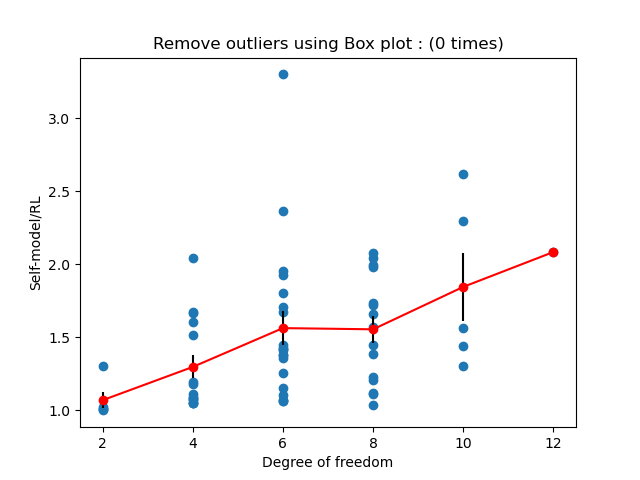
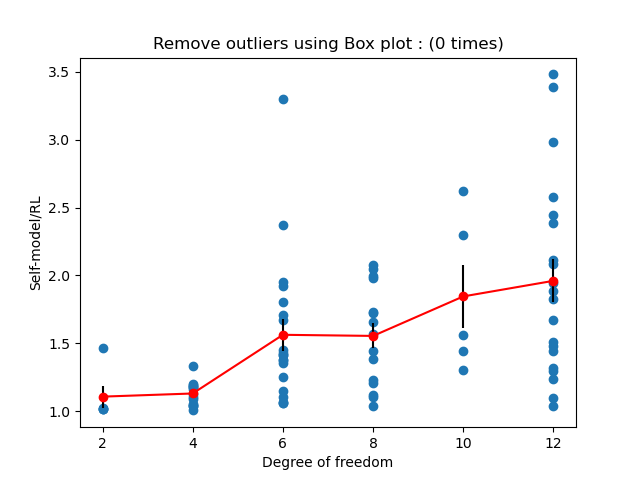
Train 20 robots for DOF 12 robot.

diff --git a/rl/main.py b/rl/main.py
@@ -9,8 +9,7 @@ import time
 from controller100.control import *
 import pybullet as p
 
-random.seed(2022)
-np.random.seed(2022)
+
 
 if torch.cuda.is_available():
     device = 'cuda'
@@ -345,19 +344,30 @@ if __name__ == '__main__':
     name = "V000"
     sm_model = FastNN(18 + 16, 18)  # ,activation_fun="Relu"
     # RL training
+    # Train_flag = True
     Train_flag = False
-    # Train_flag = False
     p.connect(p.DIRECT)
 
     rl_all_dof_data = []
-    for dof in dof_list:
 
+    for dof in range(1201,1220):
         print("DOF", dof)
+
+        log_path = '../data/dof%d/' % (dof)
+        os.makedirs(log_path,exist_ok=True)
+        inital_para = np.loadtxt("../controller100/control_para/para.csv")
+
+        if dof >1200:
+            # para_space = np.random.normal(para_space, scale=0.05)
+            para_space = np.loadtxt(log_path + "para_range.csv")
+        else:
+            para_space = np.loadtxt("../controller100/control_para/para_range.csv")
+
+        # para_space = np.clip(para_space,0,1)
+        # np.savetxt(log_path + '/para_range.csv',para_space)
         random.seed(2022)
         np.random.seed(2022)
-        log_path = '../data/dof%d/' % (dof)
-        inital_para = np.loadtxt("../controller100/control_para/para.csv")
-        para_space = np.loadtxt("../controller100/control_para/dof%d/para_range.csv" % (dof//100*100))
+
         os.makedirs(log_path, exist_ok=True)
 
         env = OSM_Env(dof, inital_para, para_space,

diff --git a/eval_rl_smrl.py b/eval_rl_smrl.py
@@ -25,29 +25,6 @@ def remove_outliers(arr1):
     return arr1[(arr1 >= lower_bound) & (arr1 <= upper_bound)]
 
 
-
-def plot_old():
-
-    sm_r_m = np.loadtxt("paper_data/sm_r_m.csv")
-    rl_r_m = np.loadtxt('paper_data/eval_rl_r_logger.csv')[:,0]
-
-    result = [0]*5
-    ratio = sm_r_m/rl_r_m
-    print(ratio)
-
-    dof_ratio = [np.mean(np.append(ratio[:5]   ,1.25)),
-                 np.mean(np.append(ratio[5:14] ,1.35)),
-                 np.mean(np.append(ratio[14:22],1.42)),
-                 np.mean(np.append(ratio[29:36],1.43)),
-                 np.mean(np.append(ratio[36:41],1.63)),
-                 1.8]
-    plt.xlabel('Degree of freedom')
-    plt.ylabel('Self-model/RL')
-    plt.plot(range(2, 14, 2), dof_ratio)
-    # plt.show()
-
-# plot_old()
-
 def plot_new(remove_outliers_data = 0):
     rl = np.loadtxt("paper_data/rl_baseline_logger.csv")
     sm_rl = np.loadtxt('paper_data/smrl_logger.csv')
@@ -66,10 +43,10 @@ def plot_new(remove_outliers_data = 0):
                        all_robot_ratio[20:40],
                        all_robot_ratio[40:55],
                        all_robot_ratio[55:60],
-                       [all_robot_ratio[60]]]
+                       all_robot_ratio[60:80]]
 
 
-    for k in range(5):
+    for k in range(6):
         for _ in range(remove_outliers_data):
             all_robot_ratio[k] = remove_outliers(all_robot_ratio[k])
 

diff --git a/rl_(sm)/dynamic_self_model.py b/rl_(sm)/dynamic_self_model.py
@@ -227,7 +227,7 @@ if __name__ == "__main__":
     p.connect(p.DIRECT)
 
     smrl_all_dof_r_logger = []
-    for dof in dof_list:
+    for dof in range(1201,1220):
 
         random.seed(2022)
         np.random.seed(2022)
@@ -235,9 +235,12 @@ if __name__ == "__main__":
         log_path = '../data/dof%d/smrl_model/' % dof
         os.makedirs(log_path,exist_ok=True)
         initial_para = np.loadtxt("../controller100/control_para/para.csv")
-        para_dir = "../controller100/control_para/dof%d/"% ((dof//100)*100)
-        dst = para_dir+"para_range.csv"
-        para_space = np.loadtxt(dst)
+        if dof>1200:
+            para_dir = "../data/dof%d/"% (dof)
+            para_space = np.loadtxt(para_dir+"para_range.csv")
+        else:
+            para_space = np.loadtxt("../controller100/control_para/para_range.csv")
+
 
         if mode != 5:
             env = OSM_Env(dof, initial_para, para_space,

diff --git a/controller100/control.py b/controller100/control.py
@@ -230,6 +230,8 @@ def dof_to_RobotMotorIndex(dof):
         robot_actuated = [0, 1, 3, 4, 5, 6, 7, 8, 9, 10]
     elif dof == 1200:
         robot_actuated = [0, 1, 2, 3, 4, 5, 6, 7, 8, 9, 10, 11]
+    elif dof//100 == 12:
+        robot_actuated = [0, 1, 2, 3, 4, 5, 6, 7, 8, 9, 10, 11]
 
     else:
         robot_actuated = None
